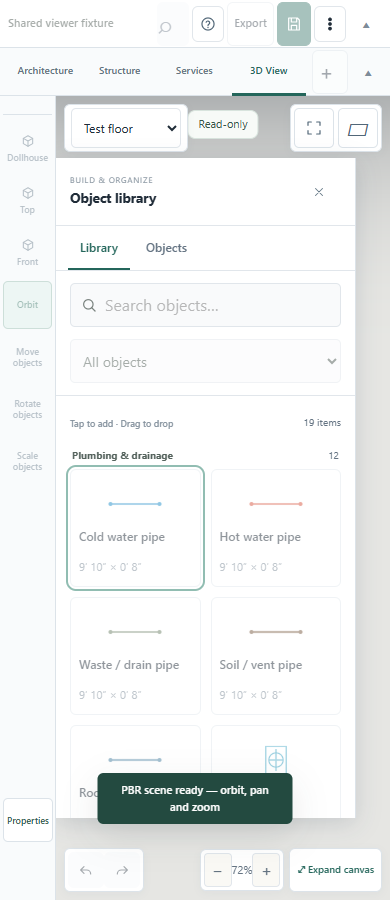
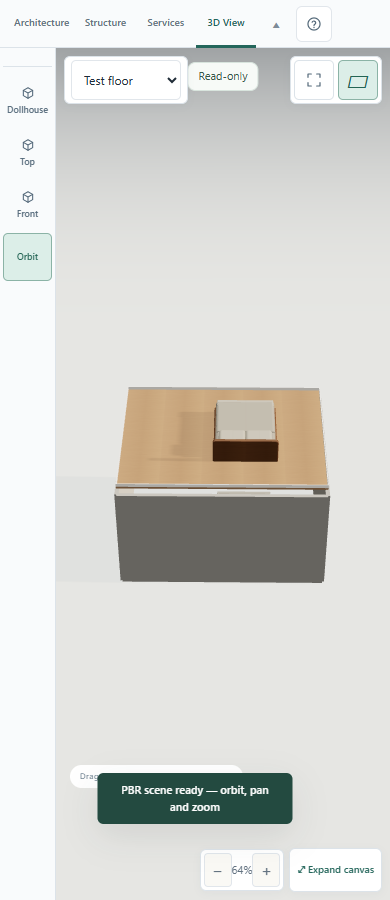
Default to stacked 3D and add clean URL-selected viewer

diff --git a/tests/browser-tests.js b/tests/browser-tests.js
@@ -135,7 +135,7 @@
     doc.querySelector('#floorModal').classList.remove('show');
   });
   await test('Four side labels edit, validate, export and undo without changing geometry',()=>{const before=JSON.stringify(A.floor());doc.querySelector('#site-north-direction').value='FRONT / NORTH';doc.querySelector('#site-north-status').value='road';doc.querySelector('#site-north-note').value='Main road & entry';doc.querySelector('#site-north-measurement').value='40′';doc.querySelector('#applySiteSides').click();assert(A.state.project.site.sides.north.measurement===1219.2,'Side measurement conversion');assert(A.siteSideText(A.state.project.site,'north').includes('ROAD · Main road & entry'),'Side text missing');assert(JSON.stringify(A.floor())===before,'Labels changed geometry');A.validateProject(A.state.project);A.floor().rooms.push({id:'label-room',type:'room',x:0,y:0,w:400,d:300,name:'Room'});assert(A.drawingSvg().includes('Main road &amp; entry'),'Export lost custom label');A.undo();assert(!A.state.project.site.sides?.north,'Label undo failed');});
-  await test('3D floor toggle sits beside Fit and switches all/active without geometry history',()=>{A.setView('3d');const toggle=doc.querySelector('#floorViewMode'),history=A.state.history.length;assert(toggle.tagName==='BUTTON'&&toggle.closest('.canvas-actions').contains(doc.querySelector('#fitBtn')),'Toggle misplaced');toggle.click();assert(A.state.project.camera.allFloors&&toggle.getAttribute('aria-pressed')==='true','All floors toggle failed');toggle.click();assert(!A.state.project.camera.allFloors,'Active floor toggle failed');assert(A.state.history.length===history,'Visibility created undo history');A.setWorkspace('architecture');});
+  await test('3D defaults to stacked floors; toggle switches active/all without geometry history',()=>{const history=A.state.history.length;A.setView('3d');const toggle=doc.querySelector('#floorViewMode');assert(A.state.project.camera.allFloors,'3D did not default to all floors');assert(toggle.tagName==='BUTTON'&&toggle.closest('.canvas-actions').contains(doc.querySelector('#fitBtn')),'Toggle misplaced');toggle.click();assert(!A.state.project.camera.allFloors&&toggle.getAttribute('aria-pressed')==='false','Active floor toggle failed');toggle.click();assert(A.state.project.camera.allFloors&&toggle.getAttribute('aria-pressed')==='true','All floors toggle failed');assert(A.state.history.length===history,'Visibility created undo history');A.setWorkspace('architecture');});
 await test('All four units preserve geometry and edit object, service and structural lengths',()=>{for(const unit of ['cm','m','ft','in']){A.setWorkspace('architecture');change(doc.querySelector('#unitSelect'),unit);const before=JSON.stringify(A.floor());A.select('test-bed');assert(doc.querySelector('[data-key="w"]').value===A.displayValue(150),'Object unit presentation '+unit);assert(JSON.stringify(A.floor())===before,'Unit changed geometry '+unit);A.setWorkspace('structure');const column=A.addStructuralObject('column'),second=A.addStructuralObject('column'),beam=A.addStructuralObject('beam');const beamLengths=()=>JSON.stringify(['x1','y1','x2','y2','width','depth','cover','tieDiameter','barDiameter'].map(k=>beam[k]));const snapshot=beamLengths();doc.querySelector('#saveStructEntity').click();assert(beamLengths()===snapshot,'Unchanged beam rounded '+unit);const text=unit==='cm'?'50':unit==='m'?'0.5':unit==='ft'?'1′ 7.68503937″':String(50/2.54);doc.querySelector('[data-struct-key="width"]').value=text;doc.querySelector('#saveStructEntity').click();assert(Math.abs(beam.width-50)<.00001,'Beam units '+unit);A.selectStructural(column.id);doc.querySelector('[data-struct-key="w"]').value=text;doc.querySelector('#saveStructEntity').click();assert(Math.abs(column.w-50)<.00001,'Column units '+unit);A.setWorkspace('services');A.addObjectToPlan('cold-water-pipe',{x:100,y:100});const route=A.floor().items.find(o=>o.type==='cold-water-pipe');A.select(route.id);const diameter=doc.querySelector('#serviceDiameter');change(diameter,unit==='cm'?'2.54':unit==='m'?'0.0254':unit==='ft'?'1″':'1');assert(Math.abs(route.diameter-2.54)<.00001,'Service diameter '+unit);assert(doc.querySelector('label[for="serviceVertices"]').textContent.includes(A.unitLabel()),'Vertex units '+unit);const points=JSON.stringify(route.routePoints);doc.querySelector('#applyServiceVertices').click();assert(JSON.stringify(route.routePoints)===points,'Unchanged vertices rounded '+unit);A.setWorkspace('architecture');}});
   await test('Canvas history, unlabelled floor and bottom legend remain accessible',()=>{const stage=doc.querySelector('#stage');for(const id of ['undoBtn','redoBtn'])assert(stage.contains(doc.querySelector('#'+id)),'History outside canvas');assert(win.getComputedStyle(doc.querySelector('.level-picker label')).display==='none','Floor label visible');for(const bar of ['#space-project','#space-navigation'])assert(doc.querySelector(bar+' .chrome-hide').textContent==='▴','Collapse arrow missing');change(doc.querySelector('#unitSelect'),'cm');doc.querySelector('#undoBtn').click();assert(A.state.project.unit==='ft','Canvas Undo failed');doc.querySelector('#redoBtn').click();assert(A.state.project.unit==='cm','Canvas Redo failed');const legend=doc.querySelector('.grid-legend').getBoundingClientRect(),bounds=stage.getBoundingClientRect();assert(Math.abs((legend.left+legend.right)/2-(bounds.left+bounds.right)/2)<2&&legend.top>bounds.top+bounds.height/2,'Legend not bottom-centred');});
   await test('Architecture excludes structural drawing and hit targets while Structure retains them',()=>{const f=A.floor();f.columns=[{id:'hidden-column',type:'column',x:650,y:100,w:30,d:30,height:300}];f.beams=[{id:'hidden-beam',type:'beam',x1:600,y1:200,x2:750,y2:200,width:23,depth:40}];A.state.project.showStructure=true;A.draw();const image=A.state.canvas.toDataURL(),columns=f.columns,beams=f.beams;assert(A.hitTest(A.worldToScreen({x:665,y:115}))===null,'Invisible column selectable');assert(A.hitTest(A.worldToScreen({x:675,y:200}))===null,'Invisible beam selectable');f.columns=[];f.beams=[];A.draw();assert(A.state.canvas.toDataURL()===image,'Structure rendered in Architecture');f.columns=columns;f.beams=beams;A.setWorkspace('structure');A.draw();assert(A.state.canvas.toDataURL()!==image,'Structure canvas missing structural drawing');});

diff --git a/js/studio-ui.js b/js/studio-ui.js
@@ -114,8 +114,8 @@
       for(const [type,label] of [['cold-water-pipe','Water pipe'],['waste-pipe','Drain'],['electrical-wire','Wiring']]){const spec=A.CATALOG.find(o=>o.type===type);if(spec)commands.append(commandButton(label,()=>A.addObjectToPlan(type),'i-dimension'));}
       const o=A.findEntity(A.state.selected);if(o&&A.isServiceRoute(o))commands.append(commandButton('Draw route',()=>A.startServiceRoute(o),'i-dimension'));
     }else{
-      for(const [preset,label] of [['dollhouse','Dollhouse'],['top','Top'],['front','Front']])commands.append(commandButton(label,()=>A.setCameraPreset(preset),'i-cube'));
-      for(const [mode,label,hint] of [['orbit','Orbit','Drag to orbit · Shift-drag an object to move'],['move','Move objects','Drag an unlocked object to move · Escape cancels'],['rotate','Rotate objects','Drag horizontally to rotate · Shift snaps to 15° · Escape cancels'],['scale','Scale objects','Drag horizontally for uniform scale · Escape cancels']]){const button=commandButton(label,()=>{window.atelier3D?.setManipulationMode(mode);A.setMobileTab('stage');A.canvasSpace?.revealCanvas();renderContext('3d');A.showHint(hint);});button.setAttribute('aria-pressed',String((A.state.transform3DMode||'orbit')===mode));button.disabled=mode!=='orbit'&&!!A.state.project.camera.allFloors;commands.append(button);}
+      for(const [preset,label] of [['dollhouse','Dollhouse'],['top','Top'],['front','Front']]){const button=commandButton(label,()=>A.setCameraPreset(preset),'i-cube');button.dataset.viewerNavigation='true';commands.append(button);}
+      for(const [mode,label,hint] of [['orbit','Orbit','Drag to orbit · Shift-drag an object to move'],['move','Move objects','Drag an unlocked object to move · Escape cancels'],['rotate','Rotate objects','Drag horizontally to rotate · Shift snaps to 15° · Escape cancels'],['scale','Scale objects','Drag horizontally for uniform scale · Escape cancels']]){const button=commandButton(label,()=>{window.atelier3D?.setManipulationMode(mode);A.setMobileTab('stage');A.canvasSpace?.revealCanvas();renderContext('3d');A.showHint(hint);});if(mode==='orbit')button.dataset.viewerNavigation='true';button.setAttribute('aria-pressed',String((A.state.transform3DMode||'orbit')===mode));button.disabled=mode!=='orbit'&&!!A.state.project.camera.allFloors;commands.append(button);}
     }
   }
   function dialog(id,title,content){
@@ -167,7 +167,7 @@
     $('#mobNavHelp').querySelector('span').textContent='Objects';$('#mobNavHelp').querySelector('use').setAttribute('href','#i-search');$('#mobNavHelp').onclick=()=>showLibrary('objects');
     $('#mobNavFloors').hidden=true;$('#chipEditBtn').onclick=openProperties;
     $('#studioFloor').onchange=e=>{const p=A.state.project;p.activeFloor=Number(e.target.value);A.state.selected=null;A.state.selectedIds.clear();A.state.inspectorMode=null;A.syncUI();A.fitPlan();A.queueSave();};$('#studioAddFloor').onclick=A.openFloorModal;
-    const oldSelect=A.select;A.select=id=>{A.state.inspectorMode=null;oldSelect(id);if(!medium()&&id)showPanel('inspector');prepareInspector();};
+    const oldSelect=A.select;A.select=id=>{A.state.inspectorMode=null;oldSelect(id);if(!A.readOnly&&!medium()&&id)showPanel('inspector');prepareInspector();};
     const oldStructuralSelect=A.selectStructural;A.selectStructural=id=>{A.state.inspectorMode=null;oldStructuralSelect(id);prepareInspector();};
     const oldInspector=A.renderInspector;A.renderInspector=()=>{oldInspector();prepareInspector();};
     const oldDraw=A.draw;A.draw=()=>{oldDraw();if(!(A.state.pointerBackup&&(A.state.interaction?.activated||A.state.nudgeActive)))syncShell();};

diff --git a/js/ui-wiring.js b/js/ui-wiring.js
@@ -114,11 +114,17 @@
   function updateCounts() { const n=A.allEntities().length;A.$('#objectCount').textContent=`${n} object${n===1?'':'s'}`; }
 
   // ── Full UI sync ─────────────────────────────────────────────
+  function syncFloorViewMode(){
+    const button=A.$('#floorViewMode');if(!button)return;
+    button.setAttribute('aria-pressed',String(!!S().project.camera.allFloors));
+    button.title=S().project.camera.allFloors?'Show active floor in 3D':'Show all floors in 3D';
+    button.setAttribute('aria-label',button.title);
+  }
   function syncUI() {
     A.updateModelRelationships();
     const project=S().project;
     A.$('#projectName').value=project.name;
-    if(A.$('#floorViewMode')){const button=A.$('#floorViewMode');button.setAttribute('aria-pressed',String(!!project.camera.allFloors));button.title=project.camera.allFloors?'Show active floor in 3D':'Show all floors in 3D';button.setAttribute('aria-label',button.title);}
+    syncFloorViewMode();
     A.$('#compass').style.setProperty('--north',`${project.north||0}deg`);
     A.updateGridLegend();renderFloors();A.renderInspector();updateCounts();updateZoom();A.draw();
     if(A.$('#floorModal').classList.contains('show'))renderFloorManager();
@@ -540,7 +546,7 @@
   Object.assign(A, {
     resizeCanvas, syncUnitPresentation, updateZoom, fitPlan,
     zoomIn, zoomOut, undo, redo,
-    openFloorModal, moveFloorLevel, deleteFloor, renderFloors, updateCounts, syncUI,
+    openFloorModal, moveFloorLevel, deleteFloor, renderFloors, updateCounts, syncUI, syncFloorViewMode,
     setMobileTab, toggleDesktopPanel, initUI
   });
 })();

diff --git a/js/read-only.js b/js/read-only.js
@@ -23,6 +23,8 @@
     A.setTool=()=>oldTool('pan');
     A.setTool('pan');
     document.body.classList.add('read-only');
+    for(const panel of ['project','catalog','inspector'])A.canvasSpace.hidePanel(panel,true);
+    document.querySelector('.workspace-navigation').append(document.querySelector('#helpBtn'));
     const badge=document.createElement('div');
     badge.className='read-only-status';badge.id='readOnlyStatus';badge.textContent='Read-only';
     badge.setAttribute('role','status');document.querySelector('#stage').append(badge);
@@ -33,7 +35,7 @@
       'structInteriorToggle','drawingScale','exportSvgBtn','exportPdfBtn','printPlanBtn']);
     const controls='button,input,select,textarea,.switch,[role="button"],[role="switch"],[contenteditable="true"],[draggable]';
     function allowed(el){return el instanceof Element&&(ids.has(el.id)||el.id.startsWith('reveal-')||
-      el.matches('[data-view],[data-workspace],[data-sheet-tab],[data-nav],[data-library],.chrome-hide,[data-tool="pan"]'));}
+      el.matches('[data-view],[data-workspace],[data-viewer-navigation],[data-sheet-tab],[data-nav],[data-library],.chrome-hide,[data-tool="pan"]'));}
     function refresh(){
       document.querySelectorAll(controls).forEach(el=>{
         if(allowed(el))return;

diff --git a/renderer3d.js b/renderer3d.js
@@ -1568,7 +1568,8 @@
   let moveMode=false;
   let transformMode='move',manipulationHelper=null;
   const transformHint=stage.querySelector('.render-badge');transformHint.id='threeTransformHint';
-  function clearManipulationHelper(){if(manipulationHelper){disposeNode(manipulationHelper);manipulationHelper=null;}transformHint.textContent='Drag to orbit · Shift-drag an object to move';transformHint.style.display='block';}
+  if(window.Atelier?.readOnly)transformHint.textContent='Drag to orbit · Scroll or pinch to zoom';
+  function clearManipulationHelper(){if(manipulationHelper){disposeNode(manipulationHelper);manipulationHelper=null;}transformHint.textContent=window.Atelier?.readOnly?'Drag to orbit · Scroll or pinch to zoom':'Drag to orbit · Shift-drag an object to move';transformHint.style.display='block';}
   function refreshManipulationHelper(entity){
     clearManipulationHelper();if(!moveMode)return;entity||=window.atelierBridge?.findEntity(window.atelierBridge.selected);
     transformHint.style.display='block';transformHint.textContent=transformMode==='rotate'?'Rotate · drag horizontally · Shift snaps to 15°':transformMode==='scale'?'Uniform scale · drag right to enlarge, left to shrink':'Move · drag an object on its floor';

diff --git a/css/canvas-space.css b/css/canvas-space.css
@@ -152,6 +152,7 @@ body.studio.canvas-space .app[data-navigation-visible="false"] .workspace-naviga
 #floorModal .floor-delete-confirm p { margin-bottom: 8px; }
 #floorModal [data-floor-action="confirm-delete"] { color: #a13124; }
 .read-only [aria-disabled="true"] { opacity: .5; cursor: default; }
+body.studio.canvas-space.read-only #reveal-project,body.studio.canvas-space.read-only #reveal-catalog,body.studio.canvas-space.read-only #reveal-inspector,body.studio.canvas-space.read-only .canvas-history,body.studio.canvas-space.read-only #studioAddFloor,body.studio.canvas-space.read-only #toolrail [data-tool]:not([data-tool="pan"]),body.studio.canvas-space.read-only #contextCommands button:not([data-viewer-navigation]):not(#structInteriorToggle) { display: none!important; }
 .read-only-status { position: absolute; top: 14px; left: 50%; transform: translateX(-50%); z-index: 9; padding: 6px 10px; border: 1px solid #d8e4dd; border-radius: 8px; background: #f7faf7; color: #37564a; font-size: 11px; pointer-events: none; }
 @media (max-width: 480px) {
   #floorModal .modal { padding: 16px; }

diff --git a/js/pointer-interaction.js b/js/pointer-interaction.js
@@ -208,6 +208,8 @@
     if(s.pointerBackup)A.cancelInteraction();
     if(document.querySelector('#serviceRouteBar'))A.stopServiceRoute?.();s.routeEditing=null;
     if(next==='3d'&&!window.atelier3D){A.showToast('3D is unavailable in this browser. Plan editing remains available.');return;}
+    if(next==='3d'&&s.viewMode!=='3d')s.project.camera.allFloors=true;
+    A.syncFloorViewMode?.();
     if(next!=='3d')window.atelier3D?.setWalk?.(false);
     s.viewMode=next;s.canvas.dataset.view=next;s.canvas.style.display=next==='3d'?'none':'block';A.$('#threeStage').style.display=next==='3d'?'block':'none';window.atelier3D?.setVisible(next==='3d');A.$$('.view-switch button').forEach(b=>b.classList.toggle('active',b.dataset.view===next));
     A.$$('.tool[data-tool="room"],.tool[data-tool="wall"],.tool[data-tool="roof"],.tool[data-tool="dimension"]').forEach(b=>b.disabled=next==='3d');

diff --git a/js/app.js b/js/app.js
@@ -24,6 +24,10 @@
     A.initStructuralWorkspace?.();
     A.initStudioUI?.();
     A.initCanvasSpace?.();
+    const params=new URLSearchParams(location.search);
+    const tab=params.get('tab')||params.get('view');
+    if(tab==='3d')A.setView('3d');
+    else if(['architecture','structure','services'].includes(tab))A.setWorkspace(tab);
     A.initReadOnly?.();
   }
 

diff --git a/INDEX.md b/INDEX.md
@@ -97,6 +97,7 @@ Internal lengths are centimetres. Project fields include `name`, `projectId`, `u
 - Select objects, choose Copy to floor, then Copy at same position in Properties. `copySelectionToFloor` in `js/object-operations.js` preserves X/Y, dimensions, rotation and elevation relative to the destination floor; it includes required hosts/supports/anchors, remaps IDs, validates a cloned candidate and applies one undo action while retaining the source floor and selection. Clipboard paste/duplicate retain their existing offset behavior.
 - A `?test=1` URL uses an isolated storage prefix.
 - `?readonly=1` opens the bundled reference in a viewer; `&layout=path.json` loads a validated same-origin layout. Native controls, custom switches/catalog cards, gestures and shortcuts cannot edit the layout or local saves. A canvas badge identifies the viewer at all screen sizes. `js/read-only.js` defaults new controls to disabled; mark navigation through its explicit allowlist.
+- `?tab=3d|architecture|structure|services` chooses the opening workspace (`view=3d` is an alias). Bootstrap applies it after the studio/canvas shell. Entering 3D shows all floors stacked by default, with the active-floor toggle retained. Read-only collapses project/Library/Properties through the canvas-space API and hides editing/history actions, retaining the left viewing rail, workspace tabs and canvas controls; the ordinary editor visibility rules remain unchanged.
 - Service items store `system`, `mountSurface`, elevation, diameter and route points where applicable. Route vertices use centimetres relative to the floor; vertical distances contribute to length. Route Properties offers spatial scaling or footprint-only scaling that preserves all vertex elevations; diameter is unchanged in both. Choosing the scale mode is transient UI state, without history or persistence. They describe layout, without automatic hydraulic/electrical sizing or network connectivity.
 - `three-side-stairs` is a separate catalog type/shape, preserving existing straight/L/U stair behavior. Width/length are clear room dimensions and height is floor-to-floor rise. Optional `stairStartSide` (short/long), `stairHandedness` (left/right), `stairTargetRiser`, `stairLandingMin` and `stairWidth` receive defaults on normalization; validation checks their types/ranges. `threeSideStairLayout` derives equal risers/going, three flight counts, two level rectangular corner landings, plan parts and illustrative rails without mutating saved data. It searches 14–18 cm risers, 25–33 cm going, 60–65 cm for 2R+T and 3–12 risers/flight; these are comfort heuristics, not compliance. Inspector changes validate fit before one undo checkpoint; generic resize/scale can produce an infeasible layout, shown as an error while remaining saveable/recoverable. Start-side/mirror/size/rise changes recalculate plan, SVG and cached 3D. Upper-floor landing/opening, headroom, guards and local width review remain required; 3 ft is below the common 1 m dwelling benchmark. `tests/ui-preview.html` has an isolated stair fixture; importable examples and comparison drawing are in `deliverables/stair-11ft6-9ft6/`.
 - Three-sided stairs now reserve entrance/exit platforms inside the footprint (`stairPlatformLength`, default at least the clear flight width), reducing available runs and recalculating risers/going. Optional `stairUpperFloorId` links the exit to an existing/new higher floor; imported references are validated, copied floors/objects clear the old link, and floor-manager changes reconcile a feasible rise or disconnect. Connect/add upper floor and Continue to next floor are validated, single-undo actions; viewing arrivals is navigation. Continuation retains the flight direction and uses a full-width, 3-foot-deep upper bridge landing to connect arrival to the next entrance, avoiding opposing-flight headroom collisions. Tread/landing plates and riser faces are illustrative 3D geometry, not solid blocks extending down through the storey. Upper-floor plans/SVGs show a derived arrival platform and opening; renderer room finishes subtract the rotated opening from triangulated room polygons and retain the platform. These are architectural finish openings: explicit structural slab geometry/load proxies remain subject to manual opening design/review. The default 11′6″ × 9′6″ example with 3′ platforms fits 18 risers (7+4+7) at 6⅔″ with 11″ going for a long-side start, or 17 (5+7+5) at about 7.06″ with 10½″ going for a short-side start.

diff --git a/validation/RESULTS.md b/validation/RESULTS.md
@@ -161,3 +161,11 @@ Reproduced on both `http://127.0.0.1:4173/?test=1&readonly=1` and the published 
 The policy now covers custom switches, role-based buttons and editable surfaces, marks them aria-disabled, removes custom editing controls from the tab sequence, and intercepts pointer/click/keyboard activation. Attribute changes that re-enable controls are repaired as well as newly rendered controls. A canvas Read-only badge stays visible at desktop/tablet/mobile sizes. Native floor-picker keyboard navigation and browser refresh remain available.
 
 Fresh verification: `node tests/regression.cjs` passed 14 groups and script parsing. `node tests/read-only.cjs` passed the 67-workflow browser suite and expanded viewer checks: bare readonly URL/reference loading, same-origin JSON loading, custom project and selected-object switches, catalog pointer/keyboard activation, protection after controls are re-enabled, no geometry/settings/history/local-save changes, keyboard floor navigation, all workspaces, Expand/Restore, touch Fit, and missing-layout errors. Zero page errors were recorded. Checks passed at 1440/820/390 px; updated `read-only-plan-*` captures were visually inspected, and `read-only-*` plus `publishing-ui-preview-*` captures were refreshed. Keyboard tests activate only controls that actually receive focus, preserving inert-sheet behavior. Camera/active-floor navigation is excluded from the immutable-layout comparison because it is permitted viewer state. `git diff --check` passed. Structural calculations were not changed and engineering benchmarks were not rerun for this correction.
+
+## 13 October 2026 — Stacked 3D opening and viewer chrome
+
+Entering 3D now enables all-floor rendering before scene activation and synchronizes the existing floor-view toggle. The toggle still selects the active floor; leaving/re-entering 3D restores the stacked default without an undo checkpoint. Bootstrap accepts `tab=architecture|structure|services|3d` and the `view=3d` alias after studio/canvas initialization; unknown values use the ordinary Architecture opening. Editable links retain their local project.
+
+Read-only uses the existing canvas-space collapse API to hide the project bar, Library and Properties initially. Editing tools, sheet/project reveals, Add floor and history controls are omitted, retaining the permanent left viewing rail, workspace tabs, floor selector, presets/orbit, Fit/zoom, Help and Expand. Help reuses its existing button in the workspace bar. Object selection does not reopen Properties. The renderer hint describes orbit/zoom instead of object editing.
+
+Fresh verification: `node tests/regression.cjs` passed 14 groups plus parsing; `node tests/read-only.cjs` passed the 67-workflow browser suite and all expanded viewer checks at 1440/820/390 px. Checks cover the stacked default and active/all toggle, each editable opening tab and invalid-tab fallback, read-only direct 3D opening with a two-floor fixture, inert/hidden editing surfaces, keyboard floor selection, object-selection sheet suppression, viewer hints, edit/keyboard/gesture/save isolation, Expand/Restore and invalid layout errors. Zero page errors. `tests/ui-preview.html` was captured at all three sizes. Visually reviewed `url-viewer-3d-1440.png`, `url-viewer-3d-820.png` and `url-viewer-3d-390.png`; the existing `read-only-*` and `publishing-ui-preview-*` captures were refreshed. `git diff --check` passed. Structural calculations were not changed; engineering checks were not rerun for these viewing changes.

diff --git a/PUBLISHING.md b/PUBLISHING.md
@@ -18,4 +18,12 @@ https://USERNAME.github.io/REPOSITORY/?readonly=1&layout=layouts/house.json
 
 `?readonly=1` alone opens the bundled reference layout. The viewer does not read or overwrite the recipient's local saved project. Editing controls, placement, transforms, imports, history and editor shortcuts are disabled; pan, zoom, workspace/floor navigation and 3D orbit remain available. Layout paths must resolve to the same origin and pass the existing project validator. An invalid/unavailable layout shows an error instead of silently opening another layout.
 
+Choose the opening workspace with `?tab=3d`, `?tab=architecture`, `?tab=structure` or `?tab=services` (`view=3d` is also supported). Unknown values fall back to Architecture. For example:
+
+```text
+https://USERNAME.github.io/REPOSITORY/?readonly=1&tab=3d&layout=layouts/house.json
+```
+
+Entering 3D defaults to all floors stacked at their elevations. The button beside Fit switches to the active floor; re-entering 3D restores the stack. Read-only opens with the project/editing bars, Library, Properties and history controls hidden. Workspace tabs, floor selection, viewing presets, orbit, Fit/zoom, Help and Expand remain available.
+
 Each person's editable projects remain in their own browser; publishing the app does not upload your local saved projects. Published JSON is downloadable, and the URL flag is a viewer convenience, not security or permission enforcement. Publish only layouts intended for public sharing. Removing the flag opens the ordinary local editor, without loading the shared JSON.
